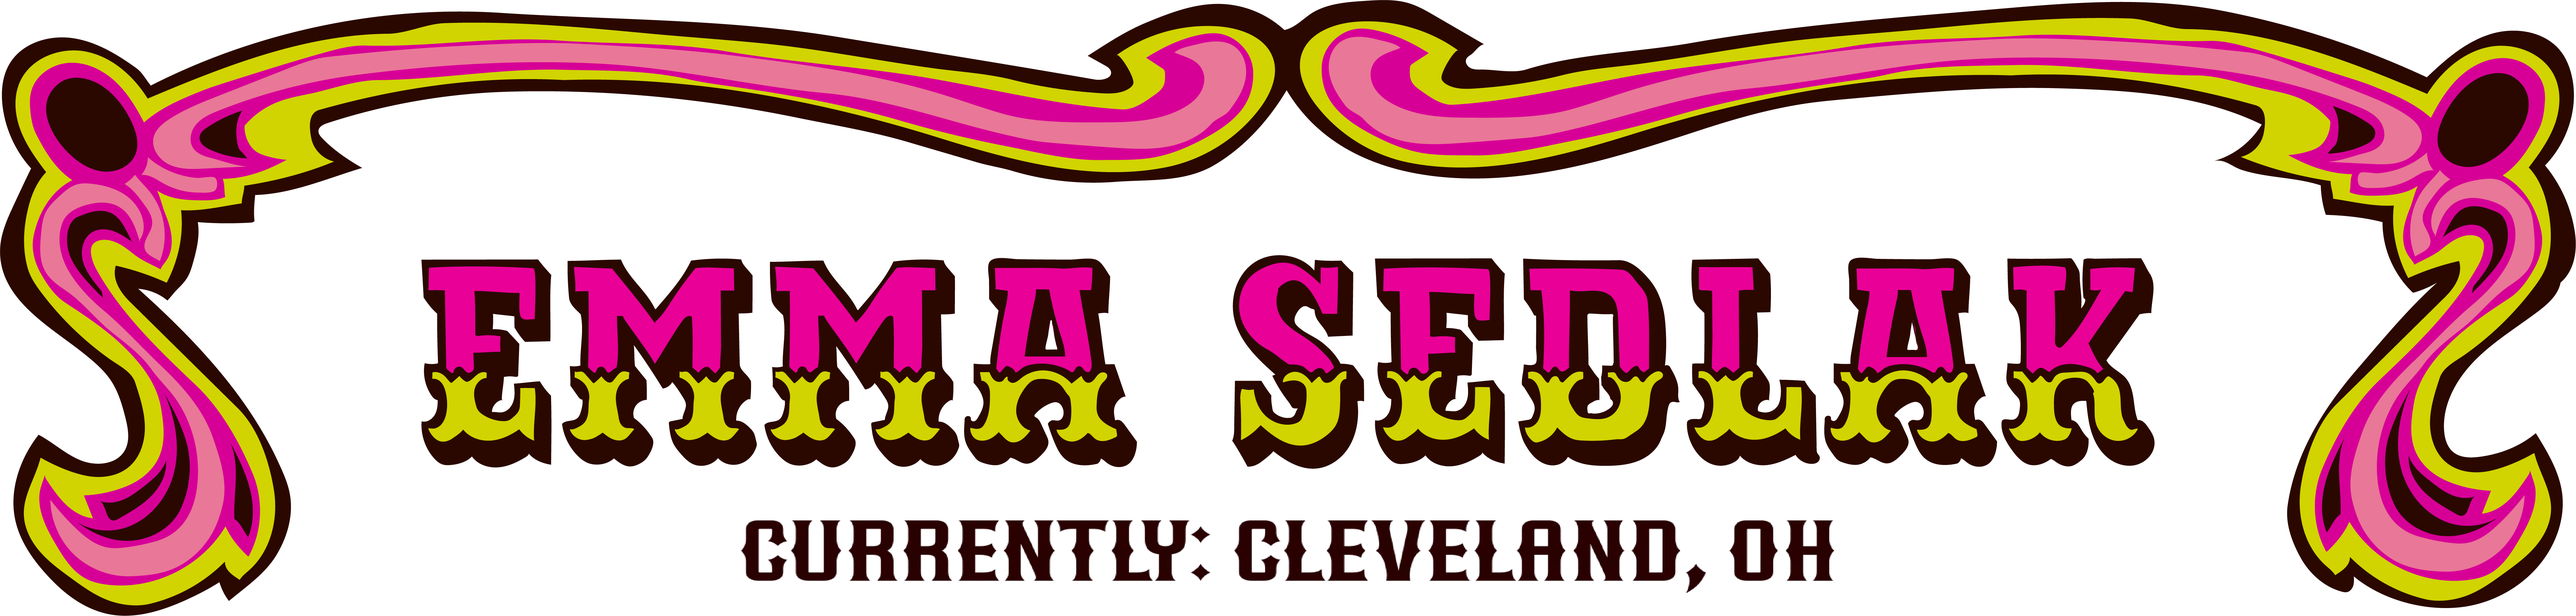
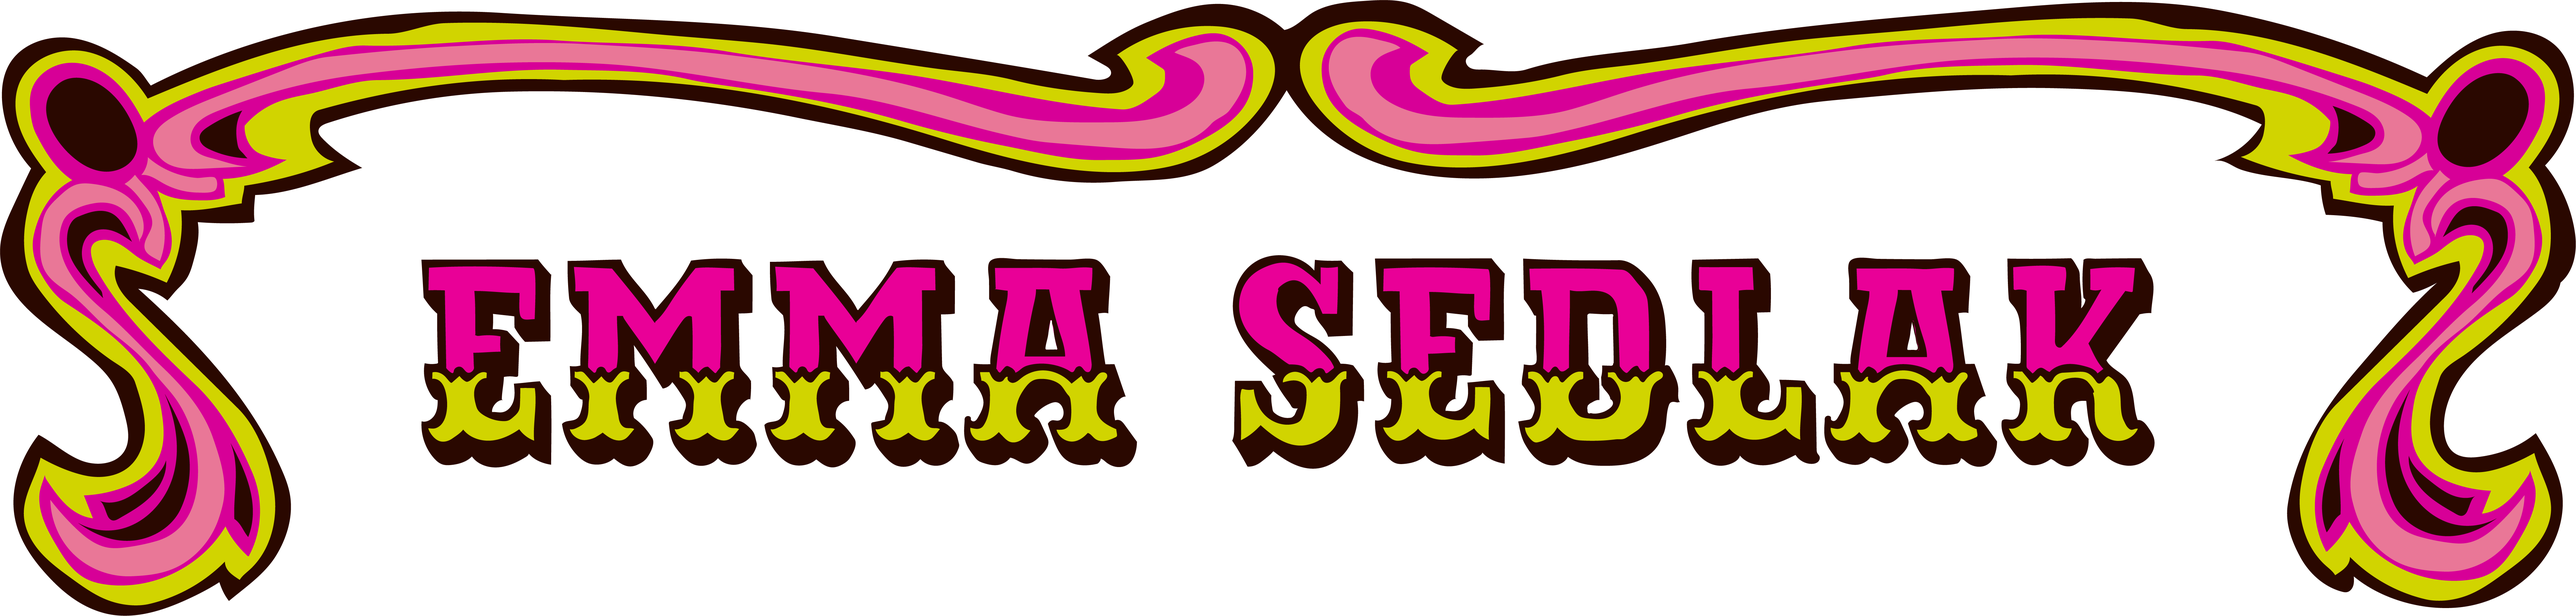
Update marquee art (drops the baked-in Currently: Cleveland, OH line); fix marquee alt text to match

Changed region(s): [[0.2802, 0.8415, 0.7162, 0.9661]]

diff --git a/bio.html b/bio.html
@@ -207,7 +207,7 @@
 <body>
 
 <header class="marquee">
-  <a href="index.html" aria-label="Emma Sedlak home"><img src="marquee.png" alt="Emma Sedlak. Currently: Cleveland, OH"></a>
+  <a href="index.html" aria-label="Emma Sedlak home"><img src="marquee.png" alt="Emma Sedlak"></a>
 </header>
 
 <p class="tagline">Civic &amp; Investigative Reporter</p>

diff --git a/index.html b/index.html
@@ -211,7 +211,7 @@
 <body>
 
 <header class="marquee">
-  <a href="index.html" aria-label="Emma Sedlak home"><img src="marquee.png" alt="Emma Sedlak. Currently: Cleveland, OH"></a>
+  <a href="index.html" aria-label="Emma Sedlak home"><img src="marquee.png" alt="Emma Sedlak"></a>
 </header>
 
 <p class="tagline">Civic &amp; Investigative Reporter</p>

diff --git a/play.html b/play.html
@@ -486,7 +486,7 @@
 </svg>
 
 <header class="marquee">
-  <a href="index.html" aria-label="Emma Sedlak home"><img src="marquee.png" alt="Emma Sedlak. Currently: Cleveland, OH"></a>
+  <a href="index.html" aria-label="Emma Sedlak home"><img src="marquee.png" alt="Emma Sedlak"></a>
 </header>
 
 <p class="tagline">Civic &amp; Investigative Reporter</p>
